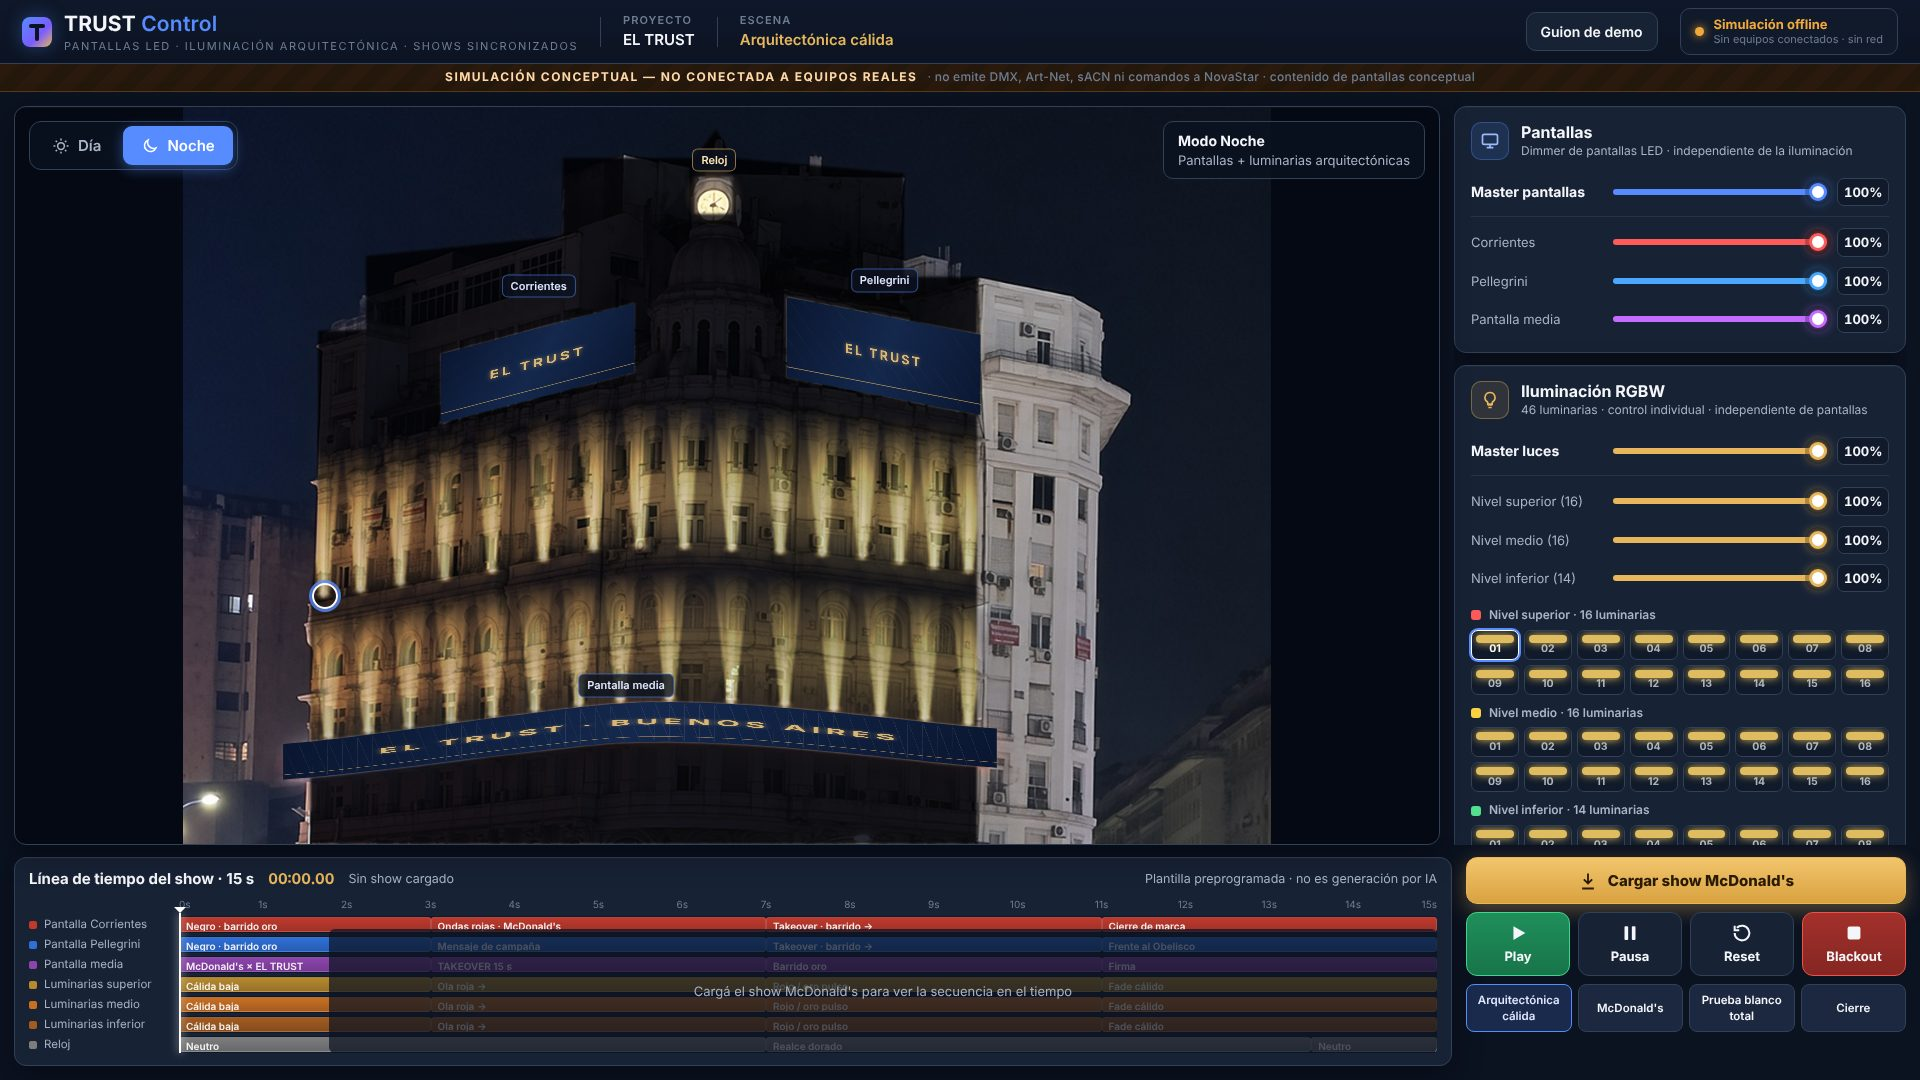
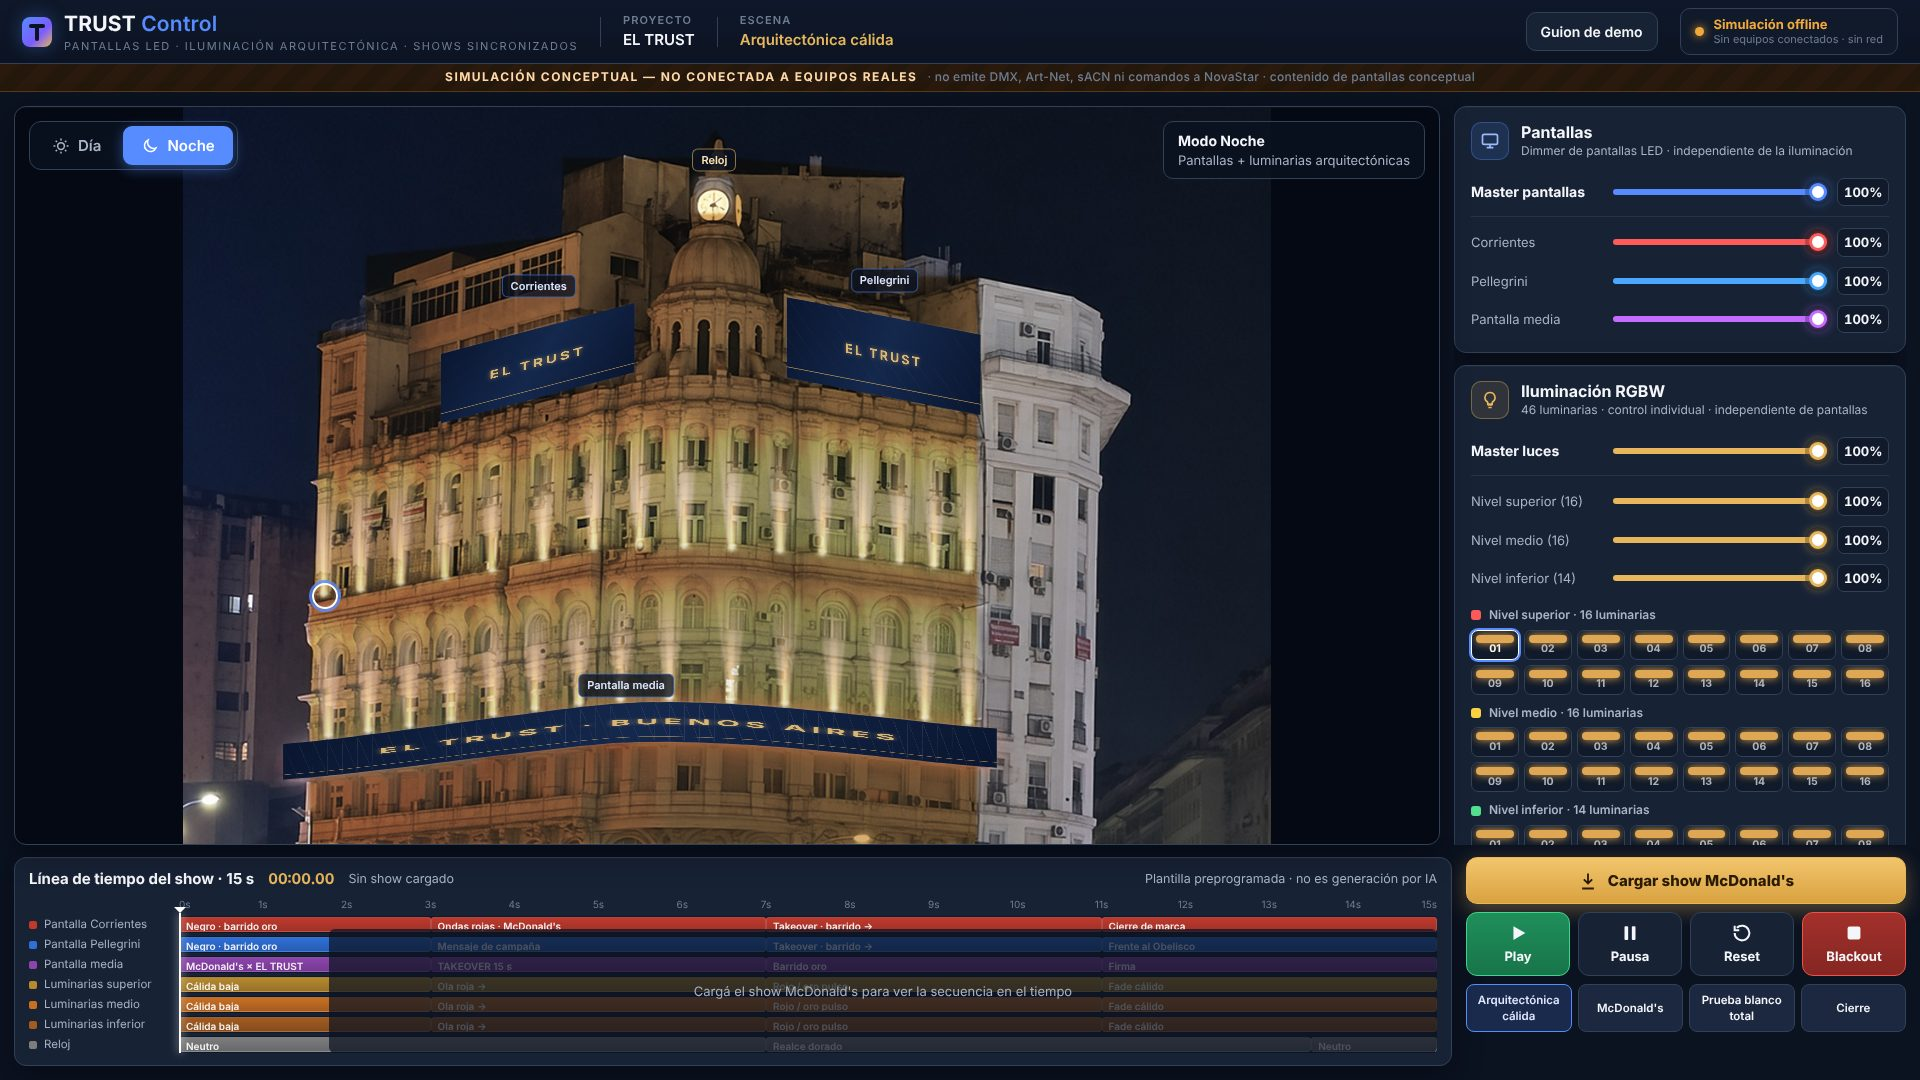
kit(#73): TRUST Control — edificio entero iluminado en cada color
Fer (14/10): con el modelo anterior quedaba demasiado oscuro y solo se veía
la mitad; el efecto buscado es el de su referencia, con todo el edificio
iluminado y los conos marcando cada bahía (las pantallas de esa imagen no se
toman: siguen en la posición calibrada).
- Baño general parejo de la base a la cúpula, proporcional al nivel y color
  promedio de las 46 salidas; apagado vuelve al ambiente mínimo.
- Destello de conos más fuerte; arquitectónica en ámbar.
- prueba_control.py TODO OK; capturas y paquete offline regenerados.

Claude-Session: https://claude.ai/code/session_01DXe61vLeD4dUBhNGGR4spu

Changed region(s): [[0.1562, 0.1222, 0.5312, 0.7944]]

diff --git a/kit/mcd-73/control/app.js b/kit/mcd-73/control/app.js
@@ -242,6 +242,17 @@
     for (const [x, y] of SILUETA.slice(1)) tctx.lineTo(x * W, y * H);
     tctx.closePath(); tctx.fill();
     lctx.globalCompositeOperation = 'lighter'; tctx.globalCompositeOperation = 'lighter';
+    // Baño general: con la fachada iluminada, la piedra rebota luz y TODO el edificio se ve encendido (referencia de Fer,
+    // 14/10). Proporcional al nivel y color promedio de las 46 salidas: con todo apagado vuelve al ambiente mínimo.
+    let sr = 0, sg = 0, sb = 0, sk = 0;
+    for (const s of sal.luces) { const c = rgbDe(s.rgbw); sr += c[0] * s.nivel; sg += c[1] * s.nivel; sb += c[2] * s.nivel; sk += s.nivel; }
+    if (sk > 0.01) {
+      const n = sal.luces.length, kprom = sk / n, col = [sr / sk, sg / sk, sb / sk].map((v) => Math.round(v * 255));
+      const gf = tctx.createLinearGradient(0, H, 0, 0);
+      gf.addColorStop(0, `rgba(${col.join(',')},${0.85 * kprom})`); gf.addColorStop(0.55, `rgba(${col.join(',')},${0.85 * kprom})`);
+      gf.addColorStop(1, `rgba(${col.join(',')},${0.82 * kprom})`);   // parejo hasta la cúpula: se luce el edificio entero
+      tctx.fillStyle = gf; tctx.fillRect(0, 0, W, H);
+    }
     let dibujadas = 0;
     for (const s of sal.luces) {
       const p = puntos[s.id];
@@ -251,7 +262,7 @@
       // en el mapa: haz fuerte + baño suave alrededor (la piedra rebota luz entre haces)
       cono(tctx, x, y, sp, ALTO_HAZ[s.grupo], col, Math.min(1, k * 1.35));
       const ba = tctx.createRadialGradient(x, y - sp * 1.2, 0, x, y - sp * 1.2, sp * 1.9);
-      ba.addColorStop(0, `rgba(${col.join(',')},${0.45 * k})`); ba.addColorStop(1, `rgba(${col.join(',')},0)`);
+      ba.addColorStop(0, `rgba(${col.join(',')},${0.55 * k})`); ba.addColorStop(1, `rgba(${col.join(',')},0)`);
       tctx.fillStyle = ba; tctx.beginPath(); tctx.ellipse(x, y - sp * 1.2, sp * 1.3, sp * 1.9, 0, 0, Math.PI * 2); tctx.fill();
       // en el brillo: el haz suma un poco de destello encima (bloom)
       cono(lctx, x, y, sp, ALTO_HAZ[s.grupo], col, k);
@@ -292,7 +303,7 @@
       ctx.globalCompositeOperation = 'multiply'; ctx.globalAlpha = 1; ctx.filter = suaveFiltro;
       ctx.drawImage(capaTinte, 0, 0); ctx.filter = 'none';
     }
-    ctx.globalCompositeOperation = 'screen'; ctx.globalAlpha = dia ? 0.06 : 0.55;   // 2b. destello del haz
+    ctx.globalCompositeOperation = 'screen'; ctx.globalAlpha = dia ? 0.06 : 0.8;   // 2b. destello del haz
     ctx.filter = suaveFiltro;
     ctx.drawImage(capaLuz, 0, 0);
     ctx.filter = 'none';

diff --git a/kit/mcd-73/control/motor.js b/kit/mcd-73/control/motor.js
@@ -27,7 +27,7 @@
 
   // Colores de escena (canales RGBW 0..1). Son colores de PREVISUALIZACIÓN, no un patch DMX.
   const C = {
-    calido: { r: 0.60, g: 0.20, b: 0.00, w: 0.80 },   // dorado cálido (referencia de estilo de Fer)
+    calido: { r: 0.75, g: 0.20, b: 0.00, w: 0.68 },   // dorado cálido (referencia de estilo de Fer)
     rojo: { r: 1.00, g: 0.02, b: 0.00, w: 0.00 },
     oro: { r: 1.00, g: 0.58, b: 0.00, w: 0.22 },
     blanco: { r: 1.00, g: 1.00, b: 1.00, w: 1.00 },

diff --git a/kit/mcd-73/README.md b/kit/mcd-73/README.md
@@ -13,7 +13,7 @@ Rama `kit/73-mcd`. Todo rotulado **SIMULACIÓN CONCEPTUAL — gemelo preliminar 
 | `demo/` | `playwright.demo.config.ts` (importa la config de plataforma, solo agrega slowMo) + `armar.py` (placas y montaje con ffmpeg). Regenerar: builds de platform-web/control como en el job `e2e-platform`, luego `playwright test -c kit/mcd-73/demo/playwright.demo.config.ts` y `python3 -I kit/mcd-73/demo/armar.py test-results/kit73-demo kit/mcd-73/trust-control-demo.mp4` | — |
 | `deck/` | Fuentes HTML del deck y la propuesta + `render.py` (Chromium local): `python3 -I kit/mcd-73/deck/render.py kit/mcd-73` | — |
 | `paquete.py` + `verificar_paquete.sh` + `prueba_navegador.py` | (f) Paquete offline: `python3 -I kit/mcd-73/paquete.py <dir>` arma `TRUST-McDonalds-kit-offline.zip` (~35 MB: video principal 1080p + alternativo 720p H.264 Main + respaldos WebM/VP9, grabación de TRUST CONTROL, 3 PDF, 4 visuales, **consola DMX virtual** (`consola/`), `index.html` sin red, `LEEME.txt`, `SHA256SUMS.txt`). El ZIP no se versiona (se regenera). `partir.py` lo parte en dos ZIP < 30 MiB (parte1: videos + consola + index; parte2: PDF + imágenes) que se descomprimen en la misma carpeta; `verificar_paquete.sh` acepta las dos partes y falla si falta cualquiera. Verificación real en `PAQUETE_VERIFICACION.txt`: SHA256 17/17, decodificación completa de los 5 videos, PDFs 8/1/1 pág., consola sin red, 0 pedidos de red, los 3 reproductores avanzan y la consola abre desde `index.html` en Chromium offline | v2 (mar 13) |
-| `control/` | **TRUST Control — presentación interactiva offline** (abrir `control/index.html`, guía en `ABRIR-PRESENTACION.txt`). Estética premium con la paleta de Fer, Inter embebida (OFL). Foto REAL `fotos/trust-noche.jpg` (= `hero-corner.jpg`, sha256 en `geometria.js`), sin deformar. Pantallas Corrientes (izq.) / Pellegrini (der.) / media (24 tramos curvos) y reloj con la geometría **aprobada** de `composition.ts` (`generar_geometria.py` la copia; la prueba verifica las 216 coordenadas). Contenido proyectado con homografía por triángulos, pintado DESPUÉS de las luces: la luz arquitectónica nunca cae sobre el LED (máscara de oclusión). De noche el TRUST no tiene luz propia: un mapa de luz (ambiente mínimo + conos de bañador por luminaria, con su color) MULTIPLICA la foto dentro de la silueta medida del edificio; luces apagadas = edificio oscuro. Vecino, torre blanca (otro edificio) y cielo no se tocan. Día/Noche solo cambia la vista. Dimmers separados: pantallas (master + 3) · luces (master + 3 niveles 16/16/14 + 46 individuales ON/OFF, 0–100 %, RGBW) · reloj. Show «McDonald's Takeover 15 s» = **plantilla preprogramada** (no IA), determinista, con Play/Pausa/Reset/Blackout, timeline de 7 pistas y guion de 7 pasos. Escenas a archivo JSON local. Prueba real: `python3 -I kit/mcd-73/control/prueba_control.py <dir>` → `control/PRUEBA_CONTROL.txt` | v1 (mié 14) |
+| `control/` | **TRUST Control — presentación interactiva offline** (abrir `control/index.html`, guía en `ABRIR-PRESENTACION.txt`). Estética premium con la paleta de Fer, Inter embebida (OFL). Foto REAL `fotos/trust-noche.jpg` (= `hero-corner.jpg`, sha256 en `geometria.js`), sin deformar. Pantallas Corrientes (izq.) / Pellegrini (der.) / media (24 tramos curvos) y reloj con la geometría **aprobada** de `composition.ts` (`generar_geometria.py` la copia; la prueba verifica las 216 coordenadas). Contenido proyectado con homografía por triángulos, pintado DESPUÉS de las luces: la luz arquitectónica nunca cae sobre el LED (máscara de oclusión). De noche el TRUST no tiene luz propia: un mapa de luz (ambiente mínimo + conos de bañador por luminaria, con su color) MULTIPLICA la foto dentro de la silueta medida del edificio; luces apagadas = edificio oscuro; con luces encendidas, además de los conos hay un baño general parejo de la base a la cúpula, proporcional al nivel y color promedio de las 46 salidas (referencia de Fer: se ve el edificio entero en cada color). Vecino, torre blanca (otro edificio) y cielo no se tocan. Día/Noche solo cambia la vista. Dimmers separados: pantallas (master + 3) · luces (master + 3 niveles 16/16/14 + 46 individuales ON/OFF, 0–100 %, RGBW) · reloj. Show «McDonald's Takeover 15 s» = **plantilla preprogramada** (no IA), determinista, con Play/Pausa/Reset/Blackout, timeline de 7 pistas y guion de 7 pasos. Escenas a archivo JSON local. Prueba real: `python3 -I kit/mcd-73/control/prueba_control.py <dir>` → `control/PRUEBA_CONTROL.txt` | v1 (mié 14) |
 | `consola/` | Consola DMX virtual **offline** (abrir `consola.html`, sin red): presets Arquitectónica cálida / McDonald's / Takeover 15 s / Cierre, Play/Pausa/Reset (espacio, 1–4, R), master y zonas 0–100 %, timeline determinista de 15 s con pistas Luz/Corrientes/Pellegrini/Reloj y reloj virtual de espectáculo, estado de los 46 equipos RGBW (16/16/14, leyenda de la imagen anotada). Rótulo fijo "SIMULACIÓN / CONTROL DMX VIRTUAL — NO CONECTADO A EQUIPOS REALES"; no emite Art-Net/sACN/DMX. La luz es una capa aditiva sobre `base-trust-noche.jpg` (sale de `hero-corner-169.jpg`, sin tocar): solo aclara. Posiciones en `luminarias.js` **vacías** hasta la imagen anotada de Fer: sin ellas no se dibuja luz sobre la foto; el editor integrado permite marcarlas y exportarlas. Prueba real: `python3 -I kit/mcd-73/consola/prueba_consola.py <dir>` → `consola/PRUEBA_CONSOLA.txt` | esqueleto v0 (mar 13) |
 | `build.py` | Regenera todo con ffmpeg local: `python3 -I kit/mcd-73/build.py <dir_salida>` (desde la raíz del repo) | — |
 
